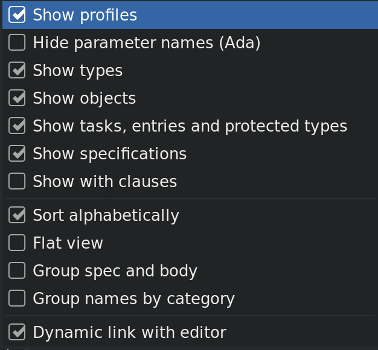
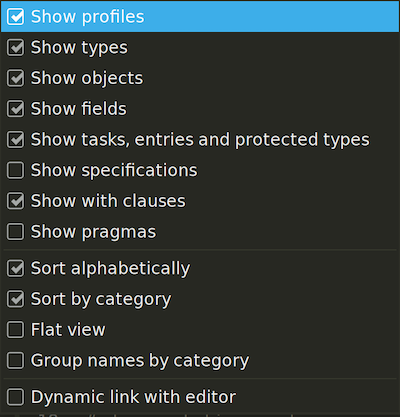
TA01-010: Update doc for navigation and Outline view
Do not mention cross-references for imported Ada functions
anymore but mention the popup menu on ctrl-clicks.

Update the Outline options screenshot to mention the new
'Show pragmas' option.

Changed region(s): [[0.0, 0.0, 1.0, 0.8857], [0.0, 0.9143, 0.6111, 1.0]]

diff --git a/docs/users_guide/navigation.rst b/docs/users_guide/navigation.rst
@@ -29,10 +29,10 @@ pointer changes.
 
 Left-clicking on a reference to an entity opens a source editor on the
 declaration of the entity and left-clicking on an entity declaration opens
-an editor on the implementation of the entity.  Left-clicking on the Ada
-declaration of a subprogram imported from C opens a source editor on the
-definition of the corresponding C entity. This capability requires support
-for cross-references.
+an editor on the implementation of the entity. Depending on the
+:menuselection:`Editor --> Ada --> Display ancestry on navigation` preference,
+a menu can popup when navigating, for instance to list all the possible
+declarations that can be called when ctrl-clicking on a dispatching call.
 
 For efficiency, GNAT Studio may create hyperlinks for some entities which have
 no associated cross reference. In this case, clicking has no effect even

diff --git a/docs/users_guide/main_window.rst b/docs/users_guide/main_window.rst
@@ -1037,6 +1037,10 @@ how the outline view is displayed:
   Indicates whether GNAT Studio displays a line for the specification
   (declaration) of entities in addition to the location of their bodies.
 
+* :guilabel:`Show pragmas`
+
+  Indicates whther GNAT Studio should display Ada pragmas or not.
+
 * :guilabel:`Sort alphabetically`
 
   Controls the order in which the entities are displayed (either
